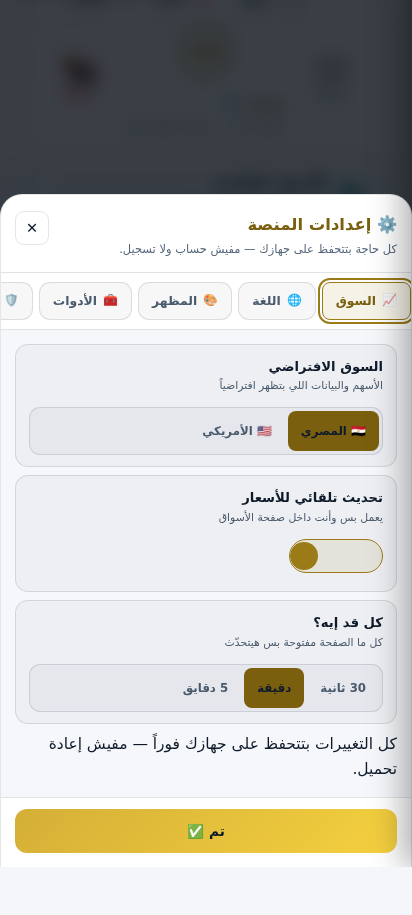
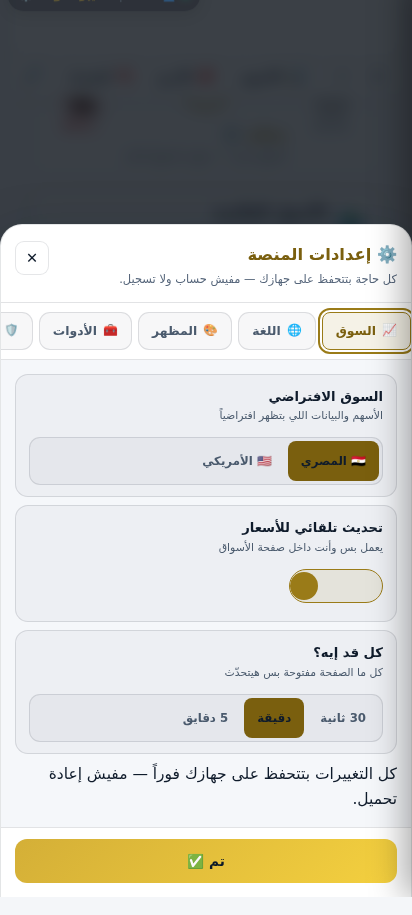
fix(settings): render the switch label as one element
The label was two spans inside a flex row, cross-faded by opacity.
Both occupied layout width at once, so the visible word sat wherever
the pair happened to end up rather than opposite the knob, and the
hidden one still reserved the space.

One element via ::after with a content swap instead. The word is now
positioned relative to the knob's actual position in both states.

Changed region(s): [[0.0, 0.2142, 1.0, 0.9792], [0.0, 0.306, 0.0583, 0.3672], [0.1748, 0.0612, 0.2039, 0.0918]]

diff --git a/index.html b/index.html
@@ -7,7 +7,7 @@
   <script id="octa-cache-clear">
   /* 🧹 مسح كاش التطبيق — يخلي أي تعديل جديد يوصل فوراً */
   (function () {
-    var BUILD = 'v=2026104812';
+    var BUILD = 'v=2026100713';
     var KEY = 'octa_build_v1';
     try {
       var prev = localStorage.getItem(KEY);
@@ -34,11 +34,11 @@
   <link rel="icon" type="image/png" href="assets/octa-logo.png">
   <!-- CSS → assets/octa.css -->
 <!-- tokens أولاً — كل الألوان هنا -->
-<link rel="stylesheet" href="assets/octa-tokens.css?v=2026104812">
-<link rel="stylesheet" href="assets/octa.css?v=2026104812">
-  <link rel="stylesheet" href="assets/css-decide.css?v=2026104812">
-  <link rel="stylesheet" href="assets/css-screener.css?v=2026104812">
-  <link rel="stylesheet" href="assets/css-chart.css?v=2026104812">
+<link rel="stylesheet" href="assets/octa-tokens.css?v=2026100713">
+<link rel="stylesheet" href="assets/octa.css?v=2026100713">
+  <link rel="stylesheet" href="assets/css-decide.css?v=2026100713">
+  <link rel="stylesheet" href="assets/css-screener.css?v=2026100713">
+  <link rel="stylesheet" href="assets/css-chart.css?v=2026100713">
 </head>
 <body>
 
@@ -1035,23 +1035,23 @@
     </div>
   </div>
 
-<script src="assets/js/octa-api.js?v=2026104812"></script>
-<script src="assets/js/octa-config.js?v=2026104812"></script>
-<script src="assets/js/octa-core.js?v=2026104812"></script>
-<script src="assets/js/octa-stats.js?v=2026104812"></script>
-<script src="assets/js/octa-auth.js?v=2026104812"></script>
-<script src="assets/js/octa-gate.js?v=2026104812"></script>
-<script src="assets/js/octa-sidebar.js?v=2026104812"></script>
-<script src="assets/js/octa-dev.js?v=2026104812"></script>
-<script src="assets/js/octa-clock.js?v=2026104812"></script>
-<script src="assets/js/octa-screener.js?v=2026104812"></script>
-<script src="assets/js/octa-chart.js?v=2026104812"></script>
-<script src="assets/js/octa-pages.js?v=2026104812"></script>
-<script src="assets/js/octa-app.js?v=2026104812"></script>
-<script src="assets/js/octa-filters.js?v=2026104812"></script>
-<script src="assets/js/octa-watch.js?v=2026104812"></script>
-<script src="assets/js/octa-decide.js?v=2026104812"></script>
-<script src="assets/js/octa-settings.js?v=2026104812"></script>
+<script src="assets/js/octa-api.js?v=2026100713"></script>
+<script src="assets/js/octa-config.js?v=2026100713"></script>
+<script src="assets/js/octa-core.js?v=2026100713"></script>
+<script src="assets/js/octa-stats.js?v=2026100713"></script>
+<script src="assets/js/octa-auth.js?v=2026100713"></script>
+<script src="assets/js/octa-gate.js?v=2026100713"></script>
+<script src="assets/js/octa-sidebar.js?v=2026100713"></script>
+<script src="assets/js/octa-dev.js?v=2026100713"></script>
+<script src="assets/js/octa-clock.js?v=2026100713"></script>
+<script src="assets/js/octa-screener.js?v=2026100713"></script>
+<script src="assets/js/octa-chart.js?v=2026100713"></script>
+<script src="assets/js/octa-pages.js?v=2026100713"></script>
+<script src="assets/js/octa-app.js?v=2026100713"></script>
+<script src="assets/js/octa-filters.js?v=2026100713"></script>
+<script src="assets/js/octa-watch.js?v=2026100713"></script>
+<script src="assets/js/octa-decide.js?v=2026100713"></script>
+<script src="assets/js/octa-settings.js?v=2026100713"></script>
 <!-- 🛠 أدوات المطوّر — بتظهر بالمصادفة ولا ما فيش زرار عادي -->
 <div class="octa-devbar">
   <button class="dev-hidden-gate" onclick="OCTADev.toggle()"

diff --git a/assets/octa.css b/assets/octa.css
@@ -5197,25 +5197,25 @@ body.set-locked { overflow: hidden; }
   background: var(--set-ink2); transition: transform .18s, background .18s;
   z-index: 2;
 }
-/* النص — دايماً على الناحية المقابلة للنقطة */
-.set-sw em {
-  position: absolute; inset-block-start: 0; inset-block-end: 0;
-  display: flex; align-items: center; gap: 3px;
-  font-style: normal; font-size: 11px; font-weight: 800;
-  letter-spacing: .6px; line-height: 1;
-  z-index: 1; pointer-events: none;
-}
-.set-sw .sw-on, .set-sw .sw-off { transition: opacity .15s; }
-.set-sw .sw-off { opacity: 1; }
-.set-sw .sw-on  { opacity: 0; }
 .set-sw.on { background: var(--set-ac-bg); border-color: var(--set-ac); }
 .set-sw.on i { background: var(--set-ac); }
-.set-sw.on .sw-off { opacity: 0; }
-.set-sw.on .sw-on  { opacity: 1; }
 
-/* RTL: النقطة تبدأ يمين فتتحرك شمال، والنص يعكس الناحية */
-.set-sw em { inset-inline-end: 30px; }
-.set-sw.on em { inset-inline-end: auto; inset-inline-start: 30px; }
+/* الكلمة (ON / OFF) — عنصر واحد بـcontent، دايماً على الناحية
+   المقابلة للنقطة. */
+.set-sw::after {
+  content: 'OFF';
+  position: absolute; inset-block: 0;
+  display: flex; align-items: center;
+  inset-inline-end: 32px;
+  font-size: 11.5px; font-weight: 800; letter-spacing: .7px; line-height: 1;
+  color: var(--set-ink2); pointer-events: none;
+  transition: inset-inline-end .18s, inset-inline-start .18s, color .18s;
+}
+.set-sw.on::after {
+  content: 'ON';
+  inset-inline-end: auto; inset-inline-start: 32px;
+  color: var(--set-ac);
+}
 [dir="rtl"] .set-sw i { transform: translateX(0); }
 [dir="rtl"] .set-sw.on i { transform: translateX(-56px); }
 [dir="ltr"] .set-sw i { transform: translateX(0); }
@@ -5224,9 +5224,8 @@ body.set-locked { overflow: hidden; }
 @media (pointer: coarse) {
   .set-sw { width: 94px; height: 34px; }
   .set-sw i { width: 28px; height: 28px; inset-block-start: 2px; }
-  .set-sw em { font-size: 12px; }
-  .set-sw em { inset-inline-end: 33px; }
-  .set-sw.on em { inset-inline-end: auto; inset-inline-start: 33px; }
+  .set-sw::after { font-size: 12.5px; inset-inline-end: 35px; }
+  .set-sw.on::after { inset-inline-end: auto; inset-inline-start: 35px; }
   [dir="rtl"] .set-sw.on i { transform: translateX(-62px); }
   [dir="ltr"] .set-sw.on i { transform: translateX(62px); }
 }

diff --git a/assets/js/octa-settings.js b/assets/js/octa-settings.js
@@ -537,12 +537,12 @@
   }
 
   function sw(on, act) {
-    /* «ON / OFF» جوه المفتاح — بدون الكلام ده
-       الوضع مش واضح بالعين. */
+    /* الكلمة (ON / OFF) بتولّدها CSS عبر content —
+       عنصر واحد بدل اتنين متقاطعين، فمفيش احتمال للنص يطلع
+       في غير مكانه أو يبان الاتنين مع بعض. */
     return '<button type="button" class="set-sw' + (on ? ' on' : '') + '" data-set="' + act + '" data-val="1"' +
       ' role="switch" aria-checked="' + (on ? 'true' : 'false') + '"' +
-      ' aria-label="' + (on ? 'مفعّل' : 'مقفول') + '">' +
-      '<i></i><em><b class="sw-off">OFF</b><b class="sw-on">ON</b></em></button>';
+      ' aria-label="' + (on ? 'مفعّل' : 'مقفول') + '"><i></i></button>';
   }
 
   /* ── ① السوق ── */
